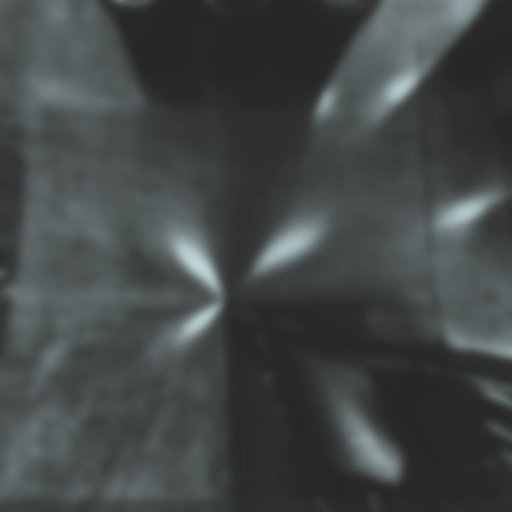
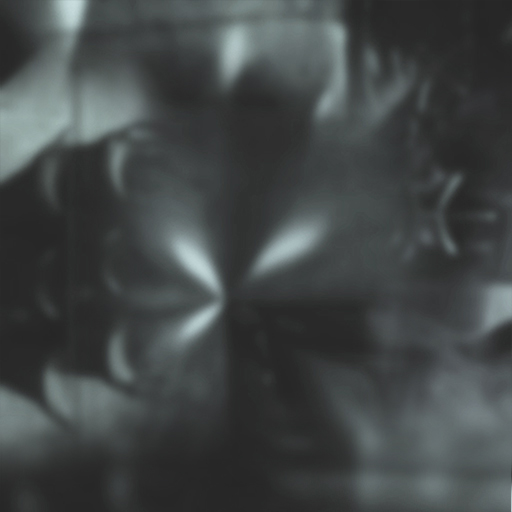
process

diff --git a/src/index.js b/src/index.js
@@ -1,6 +1,7 @@
 
 import WebGL from 'three/examples/jsm/capabilities/WebGL';
 import { GLTFExporter } from './helpers/GLTFExporter'
+import * as THREE from 'three'
 
 import { createStudio } from './Entities/Studio/oldStudio'
 //import { createStudio } from './Entities/Studio/9/main'
@@ -72,9 +73,21 @@ const threeApp = () => {
                         if (uv2) {
                             item.geometry.deleteAttribute('uv2')
                         }
-                        console.log(key, assets[key].model)
+                        console.log(key, item)
                         if (item.material) {
                             console.log('mesh: ' + key, item.material)
+
+                            if (item.material.length) {
+                                for (let i = 0; i < item.material[i]; ++i) {
+                                    //item.material[i].color = new THREE.Color(1, 1, 1)
+                                    //item.material[i].emissive = new THREE.Color(.6, .6, .6)
+                                    //item.material[i].needsUpdate = true
+                                }
+                            } else {
+                                //item.material.color = new THREE.Color(1, 1, 1)
+                                //item.material.emissive = new THREE.Color(.6, .6, .6)
+                                //item.material.needsUpdate = true
+                            }
 
 
                             if (MATERIALS_AO[key]) {
@@ -84,8 +97,14 @@ const threeApp = () => {
                                     }
                                     else {
                                         for (let i = 0; i < item.material.length; ++i) {
+                                            if (assets[key]['mat' + i]) {
+                                                // for (let k in assets[key]['mat' + i]) {
+                                                //     item.material[i][k] = assets[key]['mat' + i][k]
+                                                // }
+                                                //item.material[i] = {...item.material[i], ...assets[key]['mat' + i]}
+                                            }
                                             if (MATERIALS_AO[key][i]) {
-                                                item.material[i].aoMap = assets[MATERIALS_AO[key][i]].model
+                                               item.material[i].aoMap = assets[MATERIALS_AO[key][i]].model
                                             }
                                         }
                                     }

diff --git a/src/helpers/createMaterials.js b/src/helpers/createMaterials.js
@@ -13,15 +13,15 @@ export const createMaterials = (assets) => {
     const materials =  {
         floor: new THREE.MeshPhongMaterial({
             envMap: assets['env00'].model,
-            emissive: 0x3a322a,
-            reflectivity: 1,
+            emissive: 0x191919,
+            reflectivity: .3,
             color: 0xffffff,
             specular: 0xffffff,
             map: assets['floor00map'].model,
-            aoMap: assets['floor00aoMap'].model,
-            aoMapIntensity: 1.5,
+            //aoMap: assets['floor00aoMap'].model,
+            //aoMapIntensity: 1,
             normalMap: assets['floor00normalMap'].model,
-            normalScale: new THREE.Vector2(.5, .5),
+            normalScale: new THREE.Vector2(1.5, 1.5),
             specularMap: assets['floor00specularMap'].model,
         }),
         ceiling: new THREE.MeshPhongMaterial({
@@ -52,13 +52,14 @@ export const createMaterials = (assets) => {
         }),
         wall: new THREE.MeshPhongMaterial({
             //side: THREE.DoubleSide,
-            color: 0xfcf8ff,
+            color: 0xffffff,
             // specular: 0x333333,
             // //vertexColors: true,
             envMap: assets['env00'].model,
             reflectivity: .01,
             //roughness: 0,
             specular: 0x333333,
+            emissive: 0x111111,
             //map: assets['wall00aoMap'].model,
             aoMap: assets['wall00aoMap'].model,
             aoMapIntensity: -0.1,
@@ -93,11 +94,27 @@ export const createMaterials = (assets) => {
             ///vertexColors: true,
         }),
         door: new THREE.MeshPhongMaterial({
+            //envMap: assets['env00'].model,
+            //reflectivity: .2,
             color: 0xffffff,
             side: THREE.DoubleSide,
             specular: 0x333333,
+            //aoMap: assets['aoMap'].model,
+            aoMapIntensity: 1,
             emissive: 0x1a1c1c,
             ///vertexColors: true,
+
+
+
+
+
+
+
+
+            // color: 0xffffff,
+            // side: THREE.DoubleSide,
+            // specular: 0x333333,
+            // emissive: 0x1a1c1c,
         }),
         whiteStandard: new THREE.MeshStandardMaterial({
             color: 0xffffff,

diff --git a/src/constants/ASSETS.js b/src/constants/ASSETS.js
@@ -1,3 +1,4 @@
+import * as THREE from 'three'
 // FLAT
 
 // env
@@ -104,7 +105,7 @@ const X = -25.6
 const Z = -20
 
 export const ASSETS = [
-    { key: 'env00', src: [nx, px, ny, py, nz, pz], typeLoader: 'imgCube' },
+    { key: 'env00', src: [px, nx, py, ny, pz, nz], typeLoader: 'imgCube' },
 
     { key: 'aoMap', src: aoMap, typeLoader: 'img' },
 
@@ -122,7 +123,8 @@ export const ASSETS = [
 
     //{ key: 'chairModel', src: chair, typeLoader: 'gltf' },
 
-    { key: 'm01', src: m01, typeLoader: 'fbx',  pos: [X, 0, Z], rot: 0, hideWall: 'n'},
+   // { key: 'm01', src: m01, typeLoader: 'fbx',  pos: [X, 0, Z], rot: 0, hideWall: 'n', mat0: { emissive: new THREE.Color(.33, .33, .3) }, },
+    { key: 'm01', src: m01, typeLoader: 'fbx',  pos: [X, 0, Z], rot: 0, hideWall: 'n' },
     { key: 'm02', src: m02, typeLoader: 'fbx',  pos: [X + 8.3, 0, Z], rot: 0, hideWall: 'n'},
     { key: 'm03', src: m03, typeLoader: 'fbx',  pos: [X + 20, 0, Z], rot: 0, hideWall: 'n'},
     { key: 'm04', src: m04, typeLoader: 'fbx',  pos: [X + 31, 0, Z], rot: 0, hideWall: 'n'},

diff --git a/src/Entities/Studio/oldStudio.js b/src/Entities/Studio/oldStudio.js
@@ -44,7 +44,7 @@ export const createStudio = (cubeMap) => {
     const controls = new OrbitControls(camera, renderer.domElement);
     controls.minDistance = 2;
     controls.maxDistance = 40000;
-    controls.maxPolarAngle = Math.PI / 2 - 0.01
+    //controls.maxPolarAngle = Math.PI / 2 - 0.01
     //controls.enablePan = false
     controls.target.set(...CAM_TARGET_POS)
     controls.update();
